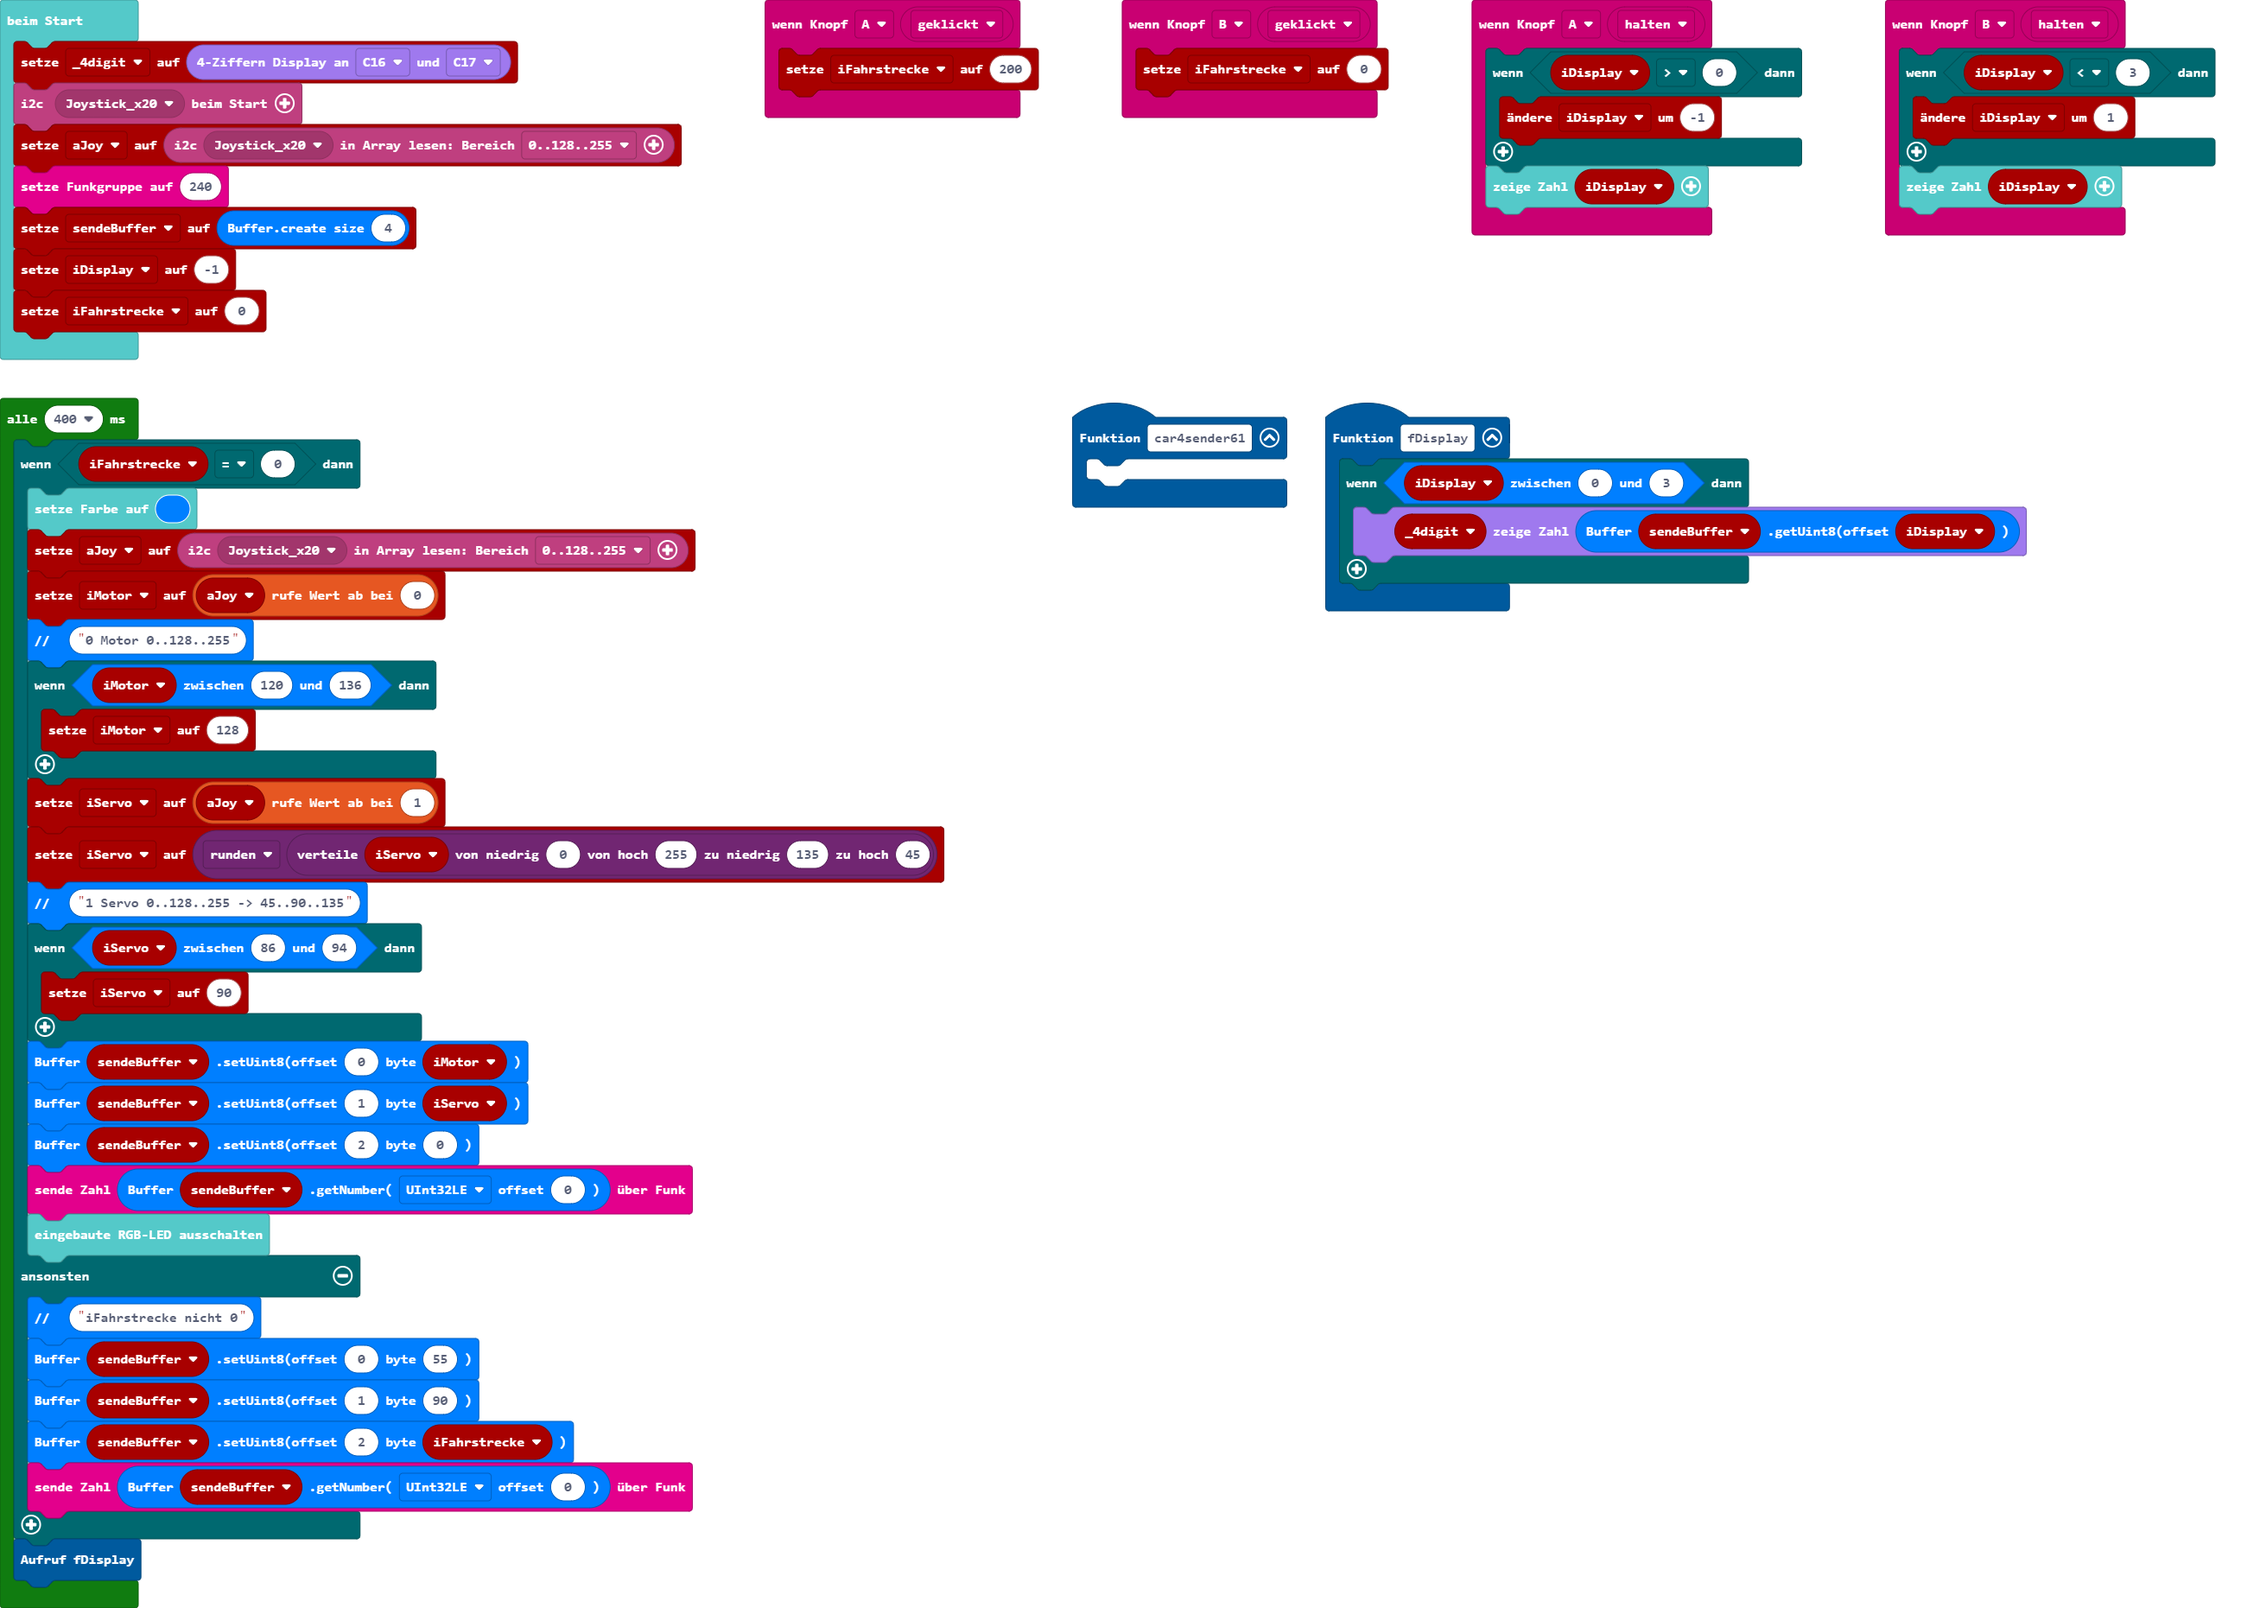
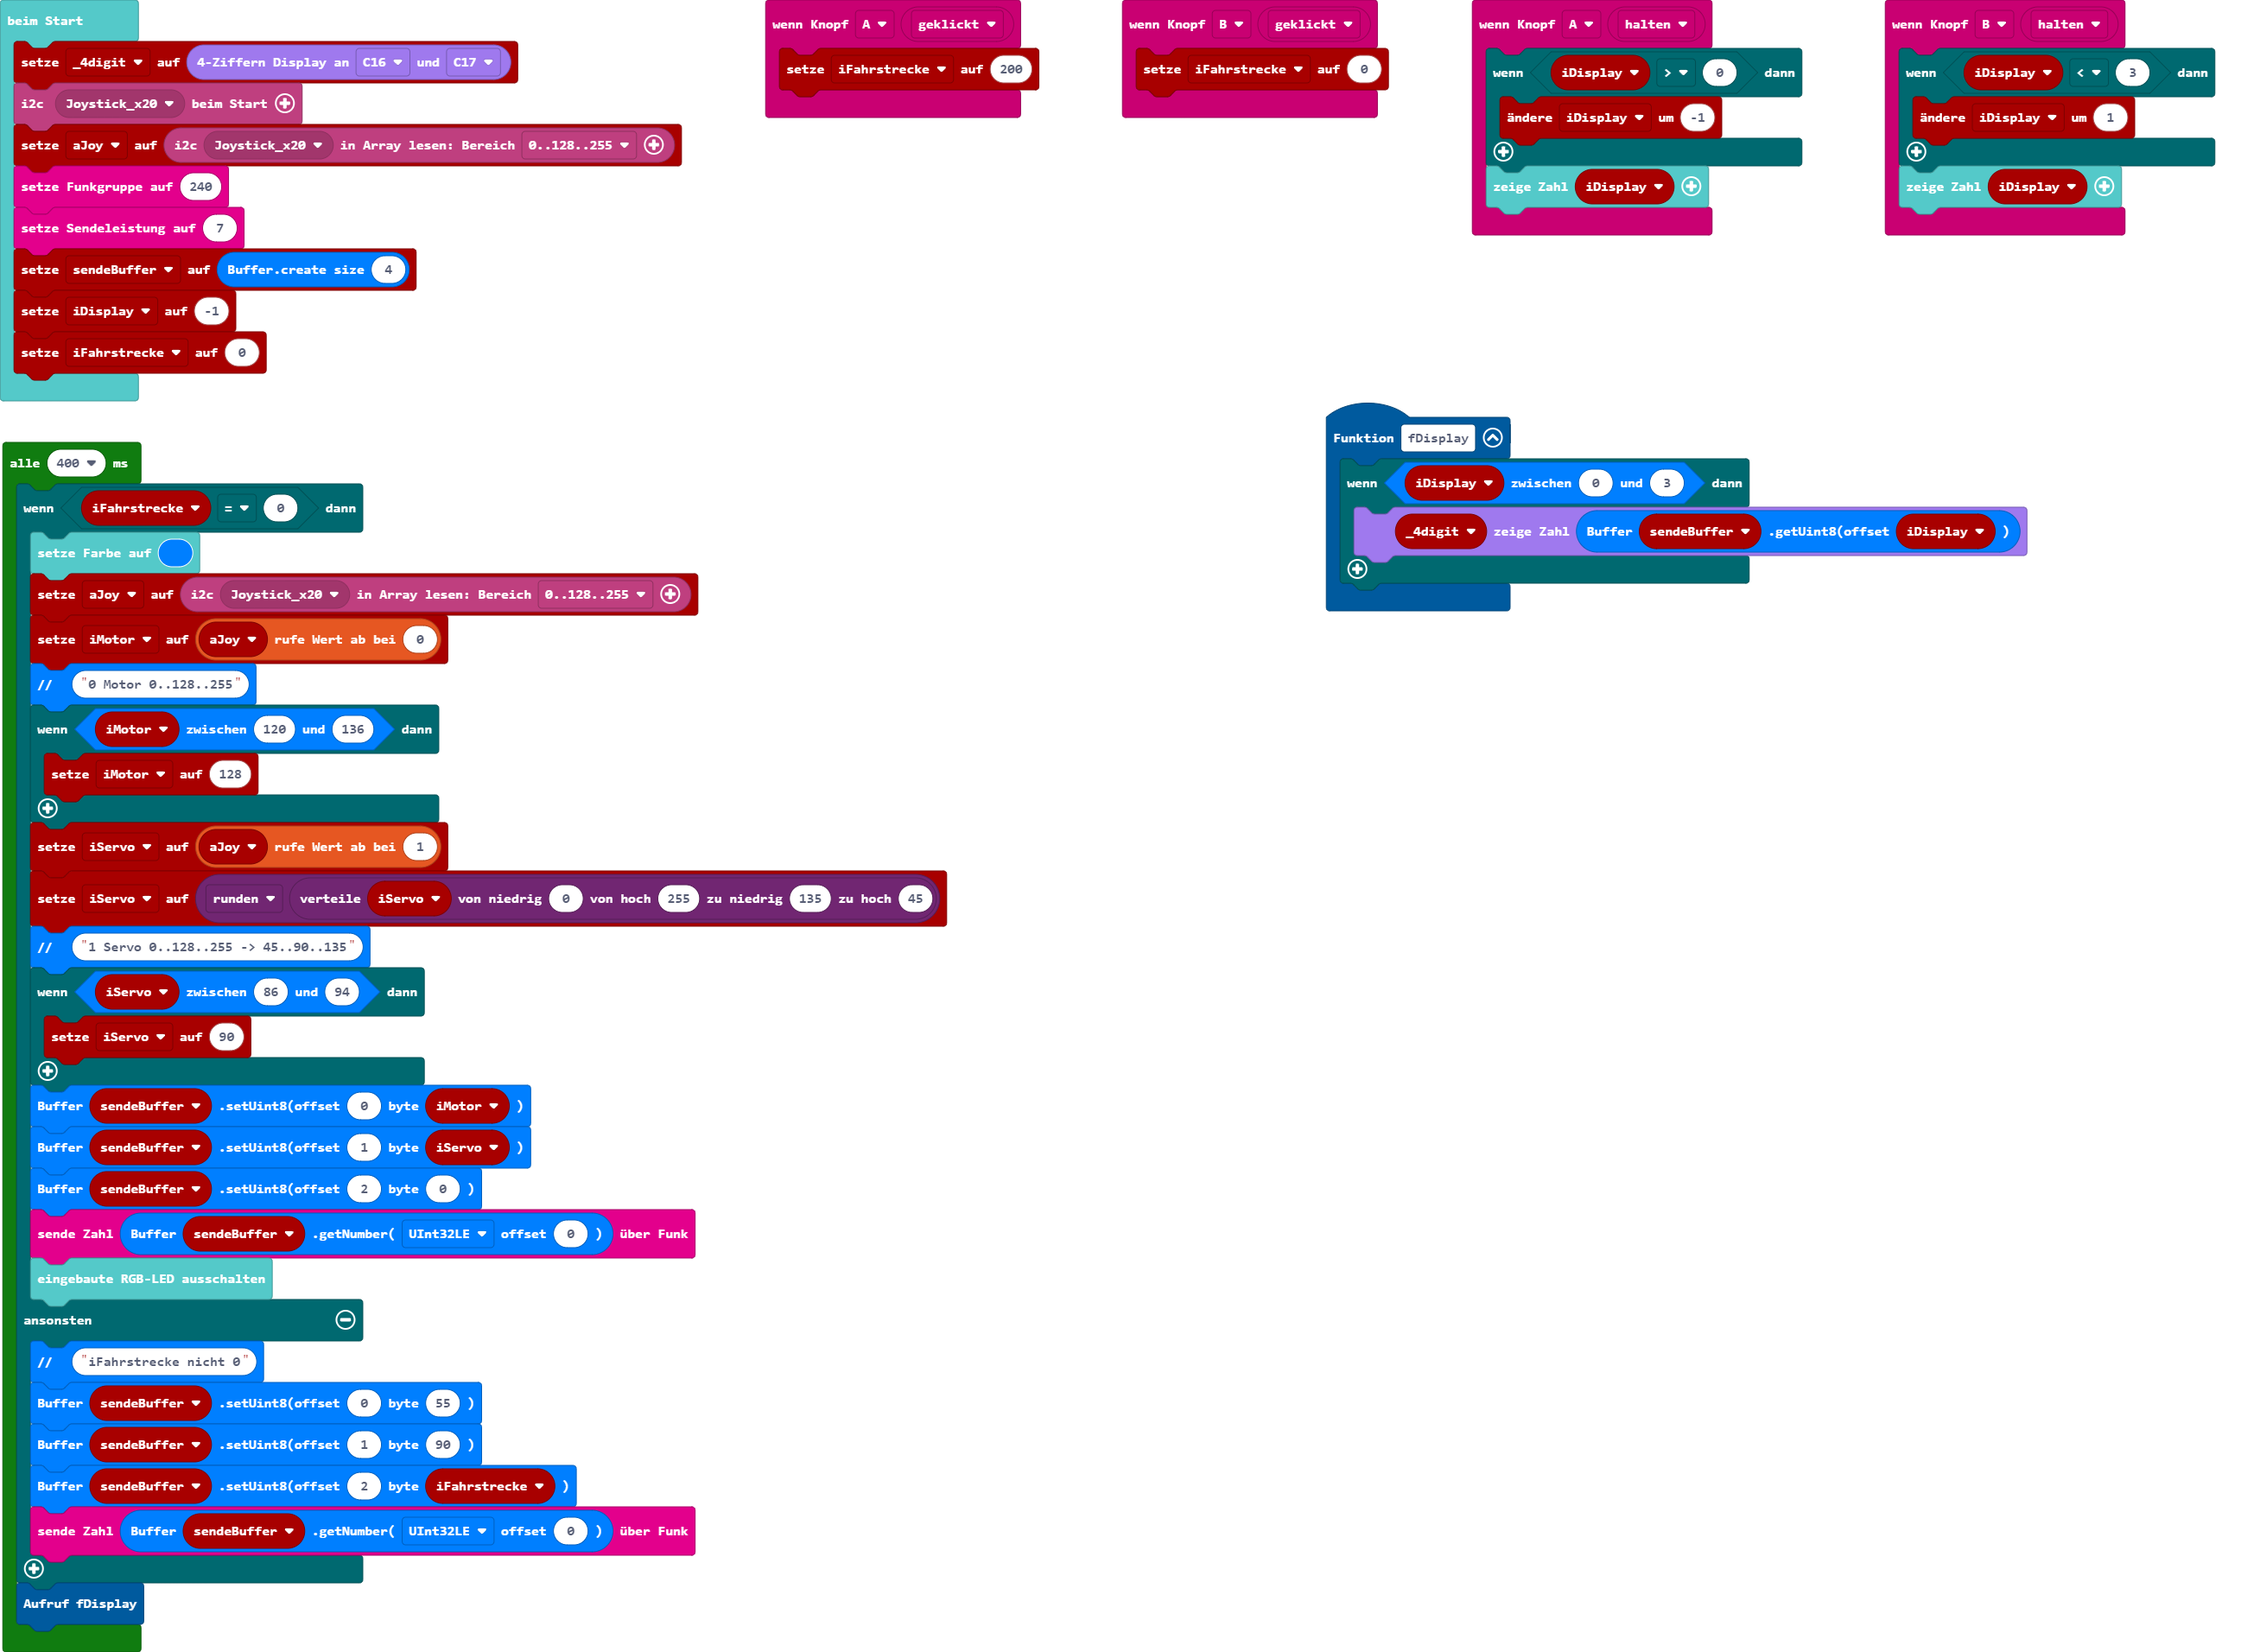
Aktualisiere main.blocks, main.ts

diff --git a/main.ts b/main.ts
@@ -1,9 +1,6 @@
 input.onButtonEvent(Button.A, ButtonEvent.Click, function () {
     iFahrstrecke = 200
 })
-function car4sender61 () {
-	
-}
 input.onButtonEvent(Button.B, ButtonEvent.Click, function () {
     iFahrstrecke = 0
 })
@@ -34,6 +31,7 @@ _4digit = grove.createDisplay(DigitalPin.C16, DigitalPin.C17)
 qwiicjoystick.beimStart(qwiicjoystick.qwiicjoystick_eADDR(qwiicjoystick.eADDR.Joystick_x20))
 let aJoy = qwiicjoystick.readArray(qwiicjoystick.qwiicjoystick_eADDR(qwiicjoystick.eADDR.Joystick_x20), qwiicjoystick.eBereich.B_0_255)
 radio.setGroup(240)
+radio.setTransmitPower(7)
 sendeBuffer = i2c.create(4)
 iDisplay = -1
 iFahrstrecke = 0
